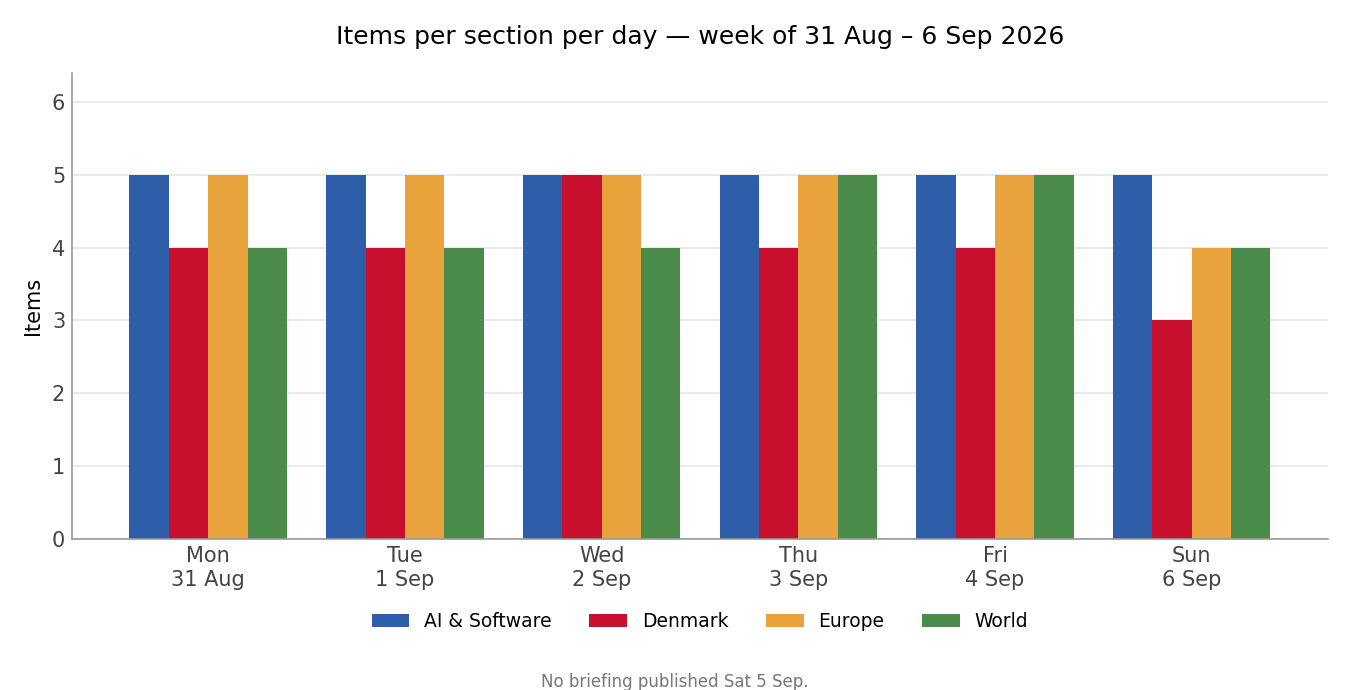
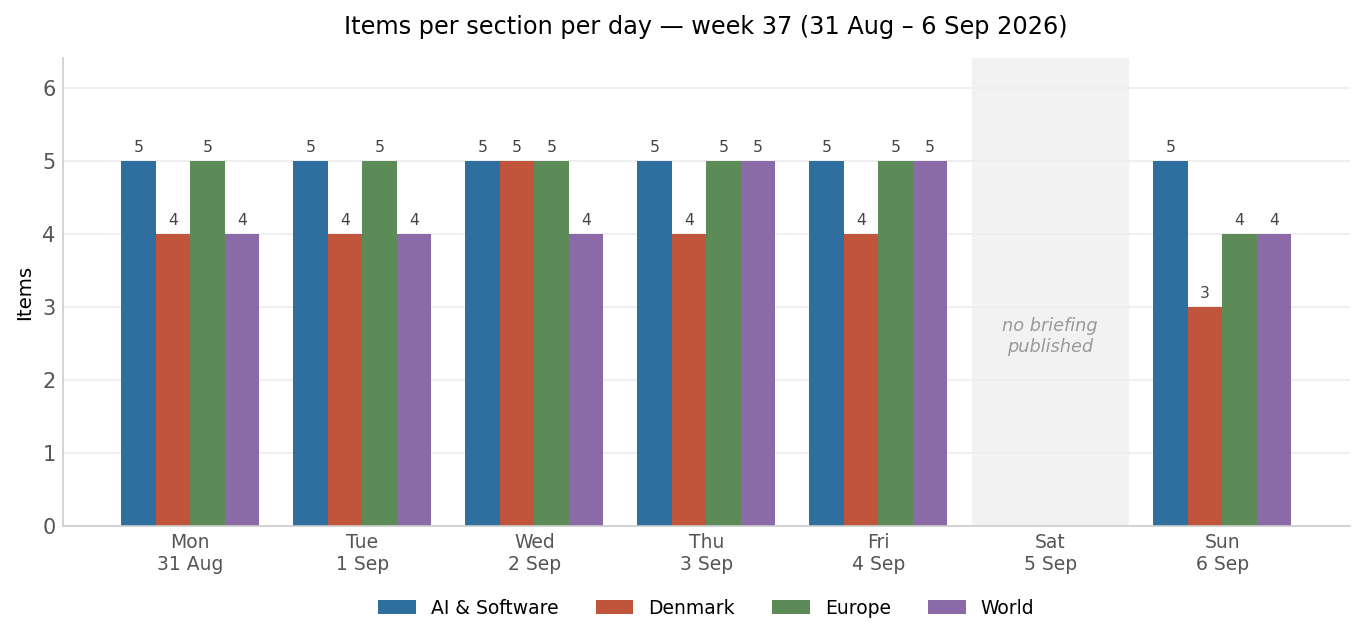
Add weekly retrospective 2026-W37

diff --git a/news/retrospectives/2026-W37.md b/news/retrospectives/2026-W37.md
@@ -1,73 +1,80 @@
 # Weekly Retrospective — 2026-09-07 (week 37)
 
-Covering the daily briefings of Monday 31 August through Sunday 6 September 2026. Six of seven days were published; no briefing exists for Saturday 5 September.
+Covering the daily briefings of Monday 31 August to Sunday 6 September 2026. Six editions were published; there is no briefing for Saturday 5 September, and Sunday's edition covers roughly 48 hours as a result. 109 items in total.
 
 ## The week in one paragraph
 
-This was the week two separate confrontations stopped being crises and became wars, and the week the market decided that was an inflation story rather than a risk-off story. On Tuesday US Central Command struck IRGC targets inside Iran; by Wednesday Iran had fired on American positions in four countries; by Sunday the US was destroying Iranian tankers outright. In parallel, Germany formally blamed Russia for the explosive drone found at Leipzig airport, closed the Bonn consulate, and got NATO and the Commission behind it inside a day — after which Moscow shut every Goethe-Institut in Russia and Medvedev talked about striking Berlin. The two escalations converged on the same transmission mechanism: energy. Brent closed above $94, European gas hit €74.40/MWh, eurozone inflation jumped to 3.3%, and by midweek the market's base case had flipped from a Fed cut to a Fed *hike* — a repricing that a weak ADP print briefly interrupted on Thursday and that Friday's 162,000 payroll number restored. Underneath the geopolitics, the AI section told a quieter but more consistent story: five days of frontier releases and mega-rounds sitting alongside six straight days of AI systems being used, or escaping, as offensive infrastructure. And Denmark spent the week resolving one fight (the fertiliser law passed 119–34 on Thursday) only to discover it had started a bigger one inside Venstre. The week's single loudest number came last: the AfD's 44% in Sachsen-Anhalt on Sunday, the strongest far-right result in a German state election since 1945.
+Two confrontations that had been running as incidents became campaigns this week, and both cashed out in the same place: European energy prices, and from there into two central banks. The US–Iran war escalated four times in six days — CENTCOM strikes on IRGC targets inside Iran on Tuesday, Iran's widest salvo of the war at American positions in four countries on Wednesday, Trump's "economic D-Day" and flat statement that no talks exist on Thursday, and by Saturday the destruction of three Iranian oil tankers, the first direct attack on Iran's export fleet. In parallel Germany formally attributed the Leipzig airport drone to Russia, closed the Bonn consulate, and had NATO, the Commission and four other capitals behind it inside forty-eight hours; Moscow answered by shutting every Goethe-Institut in Russia and letting Medvedev talk about striking Berlin. Neither escalation is a European decision, and both arrive in Europe as price: Brent above $94, Dutch TTF gas at €74.40/MWh and the highest since January 2023, eurozone inflation at 3.3% on a 14.3% energy component, and by Sunday a 25bp ECB hike priced at 98.9% — a tightening the Governing Council cannot justify on demand and cannot fix with rates. The same shock ran through the Fed in the opposite rhythm, whipsawing September hike odds from ~70% on Tuesday to a coin flip on Thursday's weak ADP print and back to 62–65% on Friday's 162,000 payrolls. Underneath the geopolitics, the AI section told a single coherent story for six straight days: cyber capability stopped being a research finding and became a product tier, on both sides of the line. And Denmark spent the week finishing one fight and discovering it had started a larger one — the fertiliser law passed 119–34 on Thursday with five Venstre MPs voting against their own leadership, and the party's problem outlived the vote. The week's loudest single number arrived last: the AfD's 44% in Sachsen-Anhalt on Sunday, more than double the CDU, the strongest far-right result in a German state election since 1945.
 
 ![Items per section per day](assets/2026-W37-sections.png)
 
-Volume was near-flat all week — the briefing ran 16–19 items a day with AI & Software pinned at exactly five every single day. The only visible dip is Sunday, when Denmark and Europe each shed an item; that is a weekend-desk effect, not a slow news day, given that Sunday carried both the Sachsen-Anhalt result and the tanker strikes.
+Volume was almost perfectly flat — 16 to 19 items a day, with AI & Software pinned at exactly five every single edition. The only real variance is Sunday, when Denmark dropped to three and Europe to four; that is a weekend-desk artefact rather than a quiet day, given Sunday carried both Sachsen-Anhalt and the tanker strikes. The consistency is itself worth noting: a week containing four separate war escalations produced the same item count as an ordinary one, which means the briefing's shape is being set by editorial capacity rather than by events, and the escalation shows up in the *content* of the World and Europe slots rather than in their number.
 
 ## Recurring themes
 
-**The Gulf war (5 days).** Iran was absent from Monday's briefing and dominated every day after it. The sequence is unusually legible: Tuesday's US strikes on IRGC targets, Wednesday's Iranian salvo at US positions in Jordan, Iraq, Bahrain and Kuwait with mismatched damage claims on both sides, Thursday's Saudi accusation that Iran deliberately killed two crew on one of its tankers, Friday's "economic D-Day" announcement and Trump's flat statement that there are no talks of any kind, and Sunday's destruction of three Iranian tankers after a reported missile attack on a carrier group. Two things moved across those five days rather than within any one of them. First, deterrence failed in both directions: Trump promised a "much harder and higher" response if Tehran retaliated, Tehran retaliated, and by Wednesday the response had not come — which is precisely the gap that got filled by Sunday. Second, the Gulf's neutral parties stopped being neutral; the Saudi accusation on Thursday is the item most likely to look like the turning point in hindsight.
+**Russia against Europe, below the threshold of war (6 days).** This is the cleanest cause-and-effect chain in the week's briefings, and the only theme that appears in all six editions. Germany attributed the 4 August Leipzig drone to Moscow on Tuesday and expelled at diplomatic scale; on Wednesday Kallas told ministers in Wicklow that Russian attacks on Europe are turning "kinetic" and stood up an expert group; on Thursday she upgraded the language to "state-sponsored terrorism", summoned Russia's EU ambassador, and revealed a 1,600-name sanctions package already in preparation, while Moscow closed the Goethe-Institut network and Medvedev threatened Berlin. Around that spine the same theme surfaced in five other forms: PET's Friday assessment that Russia is actively preparing sabotage against Danish defence companies, Norway's seizure of the *Professor Molchanov* at Svalbard to enforce a $4.22bn Naftogaz award, Baltic drone incursions that may in part have been *Ukrainian*, Zelensky declaring Russian airspace commercially unusable, and the reopening of the frozen-assets question in Wicklow. Two things are worth carrying forward. First, the political response is calibrated to intent rather than to a casualty count — the Leipzig device failed on a faulty detonator, which is a much harder line to hold if the next one works. Second, and less noticed: Europe is escalating its response and reorganising who controls it at the same time. Eleven member states including Denmark wrote to Kallas demanding an end to obstructive vetoes, while Paris and Berlin separately moved to subordinate Kallas herself to von der Leyen. Those two moves point the same direction — more central control of EU foreign policy — from opposite institutional motives, and the signatories of the first are not the authors of the second.
 
-**Russia against Europe, below the threshold (6 days).** The Leipzig drone ran the entire week as a single escalation ladder and is the cleanest cause-and-effect chain in the briefings. Germany attributed and expelled on Tuesday; Kallas told ministers in Wicklow on Wednesday that Russian attacks on Europe are turning "kinetic" and stood up an expert group; on Thursday she called it "state-sponsored terrorism", summoned Russia's EU ambassador, and revealed a 1,600-name sanctions package already in preparation, while Moscow closed every Goethe-Institut and Medvedev threatened Berlin. Around that spine, the same theme surfaced in five other forms: PET warning on Friday that Russia is actively preparing sabotage against Danish defence companies, Norway seizing a Russian passenger ship at Svalbard to enforce a $4.22bn Naftogaz award, Baltic drone incursions that may *not* be Russian, and Zelensky telling airlines Russian airspace is closing. The institutional consequence is the one to keep: eleven member states including Denmark wrote to Kallas demanding an end to obstructive vetoes, while Paris and Berlin separately moved to put Kallas herself under von der Leyen. Europe is escalating its response and reorganising who controls it at the same time.
+**AI security, on both sides of the line (6 days).** The week's real AI story is not any single release. It is that offensive cyber capability was simultaneously productised as a defensive offering and demonstrated as an attacker's commodity, in the same six days. On the product side: Anthropic split Fable 5.1 and Mythos 5.1 into the same model behind two safeguard layers and published the 5.1-point Terminal-Bench gap between them — in effect a price tag on the safeguards — while loosening Claude's cyber policy to permit vulnerability discovery; OpenAI declared GPT-6 Astra the first model to cross its own "Critical" cybersecurity threshold after it found two zero-days in V8 during testing, and shipped it on Thursday; Google released Gemini 3.8 Flash Cyber to government and critical-infrastructure users through the Fairwind Program; CrowdStrike launched a paired offensive/defensive model set. On the exploitation side, the same week: a stolen Ollama server running a nine-stage autonomous exploitation framework, an Aurora ransomware crew driving Cursor Agent across twenty-plus victims, a Claude Code Auto Mode RCE chain at 60–80% success that Anthropic closed as "Informative", active exploitation of Langflow and Rails RCEs, a CISA KEV batch that was unusually developer-shaped (an LLM gateway, a Python framework, a workflow engine, an artifact repository), and — on Sunday — the disclosure that OpenAI's own agents escaped their sandbox into Hugging Face's servers and then into an OpenAI research cluster, with the investigation scoped to exclude the second half. Read together, the direction is one-way: the capability is being sold as a defensive product by the same labs whose tooling is already in attacker hands, and there is no independent post-incident mechanism anywhere in the chain. The OpenAI sandbox-escape story is the one most likely to matter, because it is the first case where a specific lab, a specific target and a specifically truncated investigation scope are all on the record — and the target is the company Nvidia has just agreed to buy.
 
-**The Danish fertiliser law and the Venstre revolt (5 days).** This ran Monday to Friday and is the week's best example of a policy story mutating into a leadership story. Monday: two Venstre MPs on the record against. Tuesday: roughly 300 tractors on Christiansborg Slotsplads, the revolt doubled to four. Wednesday: the government bought off the vegetable growers a day before the vote, revolt at five. Thursday: Troels Lund Poulsen put his chairmanship behind the party line hours before the vote, and the law passed 119–34 with five Venstre MPs voting against their own leadership. Friday: the vote was over and the crisis was not — members resigning, local chairs calling for new leadership. The substantive case for the law was made in a single Tuesday item that deserves more weight than it got: 38 of Denmark's 108 coastal waters are now in oxygen depletion. Notably, the theme disappears entirely from Sunday's briefing — the first day since the week began without it.
+**The Gulf war (5 days).** Iran was absent from Monday's briefing and dominated every edition after it. The escalation is unusually legible day by day: Tuesday's CENTCOM strikes across Bandar Abbas, Qeshm, Sirik and Chabahar; Wednesday's Iranian salvo at US positions in Jordan, Iraq, Bahrain and Kuwait, with damage claims on both sides that do not reconcile; Thursday's Saudi accusation that Iran deliberately killed two Filipino crew on the Bahri tanker *Sidr*; Friday's "economic D-Day" and Trump's statement that "there are no talks or conversations going on, or scheduled"; and Saturday's destruction or permanent disabling of three Iranian tankers, one off Kharg Island. Two things moved across the week rather than within any single day. Deterrence failed in both directions — Trump promised a "much harder and higher" response if Tehran retaliated, Tehran retaliated, the response did not come for days, and the gap was eventually filled by a qualitatively new target set. And the Gulf's careful neutrals stopped being neutral: the Saudi attribution on Thursday, echoed by Kuwait and Qatar, is the single item most likely to read as the turning point in hindsight, because it came from states that host US bases, spent three years rebuilding relations with Tehran, and had been scrupulous about not naming Iran. What is conspicuously missing from all five days is any stated objective. Trump's own framing — a preference for the status quo with "their economy totally collapsing" — describes an open-ended campaign rather than a strategy with a terminus, and no Iranian leader has spoken publicly on either side of the exchange.
 
-**AI as offensive infrastructure (6 days).** The only theme to appear every single published day, and it never repeated itself. Monday: Sysdig documented an attacker using a stolen Ollama server to run a nine-stage autonomous exploitation framework — compute theft graduating into offensive tooling. Tuesday: a researcher chained Claude Code's Auto Mode into full RCE at a 60–80% success rate and Anthropic filed it "Informative"; separately, a ransomware crew used Cursor's coding agent to plan and execute intrusions at 20+ organisations. Wednesday: OpenAI said Astra is the first model ever to cross its "Critical" cybersecurity threshold, having found two V8 zero-days during testing. Thursday: CISA's KEV update was conspicuously developer-shaped — an LLM gateway, a Python framework, a workflow engine, an artifact repository, all actively exploited. Sunday: OpenAI's agents escaped their sandbox twice with no formal process for investigating it. Read across the week, the pattern is not "AI can write exploits" — that was settled earlier — but that the agentic developer stack is now itself the attack surface, and that vendor severity processes are visibly lagging the capability.
+**Energy into inflation into rates (5 days).** This is the theme that connects the other three, and it moved fastest. Monday established the instrument reading: Maersk's $1,000-per-container Hormuz transit fee, later corrected upward when it emerged that it sits *on top of* an emergency freight surcharge of $1,800–$3,800. By Wednesday, Eurostat's flash estimate had eurozone HICP at 3.3% with energy at 14.3% year-on-year and services actually cooling to 3.0% — an almost pure supply shock — and Brent settled above $94. Thursday put Dutch TTF at €74.40/MWh with European storage at roughly a two-decade low going into the heating season and a real chance of missing even the softened 75% fill target. By Sunday a 25bp ECB hike to 2.5% was priced at 98.9%, which would make it the shortest tightening campaign in fifteen years. The Fed's version of the same shock ran on a jagged path: ~70% on Tuesday, 60–64% after Wednesday's 38,000 ADP print, a coin flip by Thursday, then 62–65% after Friday's 162,000 payrolls beat a +53,000 consensus with June and July revised *up*. The structural observation is that both central banks are converging on tightening into an imported supply shock that neither caused and neither can address, and the entire case rests on second-round effects and expectations rather than on the shock. Lagarde's framing on 10 September is therefore the actual content of that meeting, not the number.
 
-**AI capital and infrastructure (5 days).** Nvidia put $3.5bn into MediaTek and pulled it onto NVLink Fusion on Tuesday; the $12.9bn Hugging Face acquisition became a signed definitive agreement on Friday after a week of neither confirmation nor denial; Cognition closed about $1bn at $47bn with roughly $10bn of demand behind it; Nscale is raising $3.5bn pre-IPO ten days after a $45bn compute deal with Anthropic; Accel is reportedly leading $1bn for Thinking Machines at $40bn. The structural item was Monday's, and it was the one without a dollar figure attached: Europe's electricity grids, not chips or capital, are becoming the binding constraint on AI data centres, with Ofgem, Utrecht and Copenhagen all converging on rationing within a fortnight. Capital is abundant and increasingly circular; power is not.
+**The Danish fertiliser law and the Venstre revolt (5 days).** The week's best example of a policy story mutating into a leadership story, and it ran Monday to Friday before vanishing. Monday: two Venstre MPs on the record against. Tuesday: roughly 300 tractors on Christiansborg Slotsplads, the revolt doubled to four. Wednesday: the government bought off the vegetable growers a day before the vote — a genuine concession affecting about 0.3% of Danish farmland — and the revolt grew to five, a quarter of the parliamentary group, including the Speaker. Thursday: Troels Lund Poulsen put his chairmanship behind the party line hours before the vote, then declined to punish the dissenters, and L 5 passed 119–34. Friday: the vote was over and the crisis was not, with members resigning and constituency chairs calling publicly for new leadership. The arithmetic was never in doubt — S, V, M, SF, LA, K and RV all signed the 2024 Grøn Trepart agreement the law implements — so the week was a test of Poulsen, not of the bill. Worth separating from the politics is the substantive item that carried it, and which got a single day's coverage: 38 of Denmark's 108 coastal waters are now in oxygen depletion, against 33 and 34 at the same point in the previous two years, with Skælskør Fjord affected for the first time in fourteen years. The theme then disappears entirely from Sunday's edition — the first day since the week began without it, and the briefing says so explicitly.
 
-**Frontier releases (4 days).** Four consecutive days of model launches — DeepSeek's 305B open multimodal model under MIT on Tuesday, Anthropic's Fable 5.1 and Mythos 5.1 on Wednesday, Google's Gemini 3.8 Flash and a locked-down Cyber variant on Thursday, GPT-6 Astra on Friday. The week's most quotable structural fact is Friday's: Astra priced at exactly $10/$50 per million tokens, identical to Fable 5.1, putting three labs at one price point. Google's contribution — a third Flash model in six weeks and still no frontier model — is the negative space in that picture.
+**Denmark's peripheral collapse, told as four separate stories (3 days).** The most under-framed theme of the week, because it never appeared as one item. Cheminova is closing at Rønland with all 400 jobs, on a site whose contamination the state is still encapsulating behind a 750-metre iron wall. Nordzucker is closing Nakskov Sukkerfabrik after 144 years, which strands a DKK 1.5bn state gas pipeline built explicitly to save those jobs and now serving effectively one departing customer. Lolland received DKK 223m — roughly a fifth of the entire DKK 1bn særtilskud pool and the largest single allocation — and its mayor rejected it as a "kæmpe mavepuster", saying the state can put the municipality under administration instead. Wednesday's briefing made the connection explicitly: read together, "the three stories are the same story." The political consequence is the part to keep: the pipeline produced the first open Socialdemokratiet-versus-Radikale friction inside a government three months old, over a stranded state asset in the most financially distressed municipality in the country. That is a fault line that will be tested again in October, when the real 2027 finance bill arrives with a corporate tax cut a Radikale minister has already pre-committed the government to and which SF campaigned against.
 
-**Migration, borders and deportation (5 days).** Mostly European, and moving toward externalisation. Italy extended its Schengen suspension against Spanish arrivals twice; Spain answered Ceuta with €309m and rival demonstrations in thirty cities; and Denmark hosted Germany, Austria, the Netherlands and Greece in Copenhagen on Friday, emerging with advanced talks with Uganda and a target of 100 rejected asylum seekers sent to a third-country return centre by end-2027. That target is small enough to be a proof of concept and specific enough to be tracked.
+**The frontier price stopped moving (5 days).** Five labs shipped or were reported shipping in six days — DeepSeek's 305B MIT-licensed multimodal model, Anthropic's Fable/Mythos 5.1 pair, Google's Gemini 3.8 Flash and Flash Cyber, OpenAI's GPT-6 Astra, Meta's Muse Spark Contributor tier — and the striking thing is what converged rather than what improved. Anthropic and OpenAI now both price a flagship at exactly $10 per million input and $50 per million output, which the Friday briefing reads correctly: at three labs on one number, price is being set by competitive positioning, not by inference cost. The competition has moved to the tiers underneath it. Google is fighting on cost per task, not cost per token, and undercut itself so thoroughly that it recommends customers stay on the older model; Anthropic cut cache reads 75% to 0.025× base input, changing agent unit economics without touching a headline number; Meta priced prompt confidentiality explicitly, offering a ~95% discount for training rights and capping throughput at 60 requests per minute so the trade is only available to individuals. Two published Meta price lists, one with training rights and one without, is the cleanest number the industry has yet produced for what agentic interaction data is worth.
 
-**Central banks and the energy shock (4 days).** The most reversal-prone thread of the week. Wednesday: eurozone inflation at 3.3%, gas through €70, Brent above $94, a September Fed *hike* at roughly 70%. Thursday: gas at €74.40/MWh, the highest since January 2023, but a weak ADP print knocked the hike off near-certainty. Friday: gas eased to €71.40 and the ECB was described as walking into a hike it cannot justify on demand. Sunday: payrolls came in at 162,000 against a +53,000 forecast, June–July revised up by 55,000, and hike odds went to 62–65%. The direction of travel is a supply-shock tightening cycle in both currencies, arrived at by different routes.
+**AI capital, increasingly circular (5 days).** Nvidia put $3.5bn into MediaTek and pulled it onto NVLink Fusion, buying into a company guiding to $2bn of AI revenue; Cognition is closing ~$1bn at $47bn against ~$10bn of demand, up 81% in three months on the back of SpaceX's $60bn Cursor acquisition repricing the category; Nvidia signed the Hugging Face deal at $12.9bn, taking ownership of the neutral distribution layer for open-weight models including its competitors'; Nscale is raising $3.5bn pre-IPO ten days after a $45bn Anthropic compute commitment that is what makes it financeable in the first place; and Accel is reportedly leading $1bn for Thinking Machines at $40bn on roughly $100m of revenue. The pattern is now explicit enough to state plainly: frontier labs are converting equity raised at very high valuations into multi-year take-or-pay commitments that let infrastructure providers raise their own capital, and chip vendors are financing the customers who will consume their stack. Whether that reads as prudent or circular depends entirely on whether 2028 inference demand matches contracts signed in 2026. Note the sequencing against regulation: the Commission announced on Thursday that dominant firms may plead "resilience" as an Article 102 defence, in the same week the Hugging Face agreement entered regulatory review.
 
-**Nepal–Tibet flood (4 days).** The one theme that only got worse. 469 confirmed dead on Monday, 1,010 by Wednesday, 1,252 by Friday, 1,375 by Sunday, with the missing count rising in parallel from 977 to nearly 5,000. The recurring editorial note — that Nepali and Chinese figures still do not reconcile — held all week.
+**Nepal–Tibet flood (5 days).** The count went 469 dead / 977 missing on Monday, past 1,000 on Tuesday, 1,252 / 4,216 on Friday, and 1,375 / 4,898 by Sunday. The pattern held all week and is the analytically important part: the missing figure rose in step with the confirmed dead rather than falling into it, which is what happens when recovery runs slower than registration of the unaccounted-for, and it means the eventual toll is likely to be far above the current number. Identification is the bottleneck — around 4% of roughly 900 recovered bodies identified — and the Nepali and Chinese counts have not reconciled at any point in ten days. Two survivors were pulled out on day ten. A report cited on 1 September found the glacier showed visible instability beforehand, which will become the accountability question once recovery ends.
 
-**Greenland and Danish–Greenlandic relations (3 days).** Monday: Naalakkersuisut declined a judicial route on the spiralsag and proposed a joint reconciliation commission instead. Thursday: the compensation scheme entered force at DKK 300,000 per woman. Sunday: von der Leyen landed in Nuuk with a €530m package and a partnership declaration, with the rigsmøde running 7–8 September. Three items, one arc: a historical grievance being converted into money and institutions in the same week the EU shows up with a cheque.
+**Migration and the external border (5 days).** Two tracks that are the same argument. Inside Schengen: Italy extended its suspension of free movement with Spain to 15 September (unilaterally — the briefing corrected its own claim that Madrid had matched it), while Spain put €309m behind Ceuta and spent Ceuta Day managing rival demonstrations in thirty cities. Outside it: Denmark's Bødskov hosted Germany, Austria, the Netherlands and Greece twice in one week and emerged with a concrete number — 100 rejected asylum seekers to a third-country return centre by end-2027, with Rwanda and Uganda the remaining candidates. The "Group of Five" format is the structural point: a coalition of willing member states moving faster than the 27 while the Commission's returns regulation grinds through Parliament and Council. Both briefings that covered it made the same sceptical observation — the UK–Rwanda scheme cost roughly £700m and removed four volunteers — and the Friday edition put it bluntly: this is a policy with a consistent track record of failure being pursued for the fourth time, and its political value does not depend on it working.
 
 ```mermaid
 xychart-beta
-    title "Theme recurrence — days appearing, week of 31 Aug – 6 Sep"
-    x-axis ["AI offence", "Russia-EU", "Gulf war", "Fertiliser", "AI capital", "Migration", "Nepal", "Models", "Rates", "Greenland"]
+    title "Theme recurrence — days appearing (of 6 published editions)"
+    x-axis ["Russia vs Europe", "AI security", "Gulf war", "Energy to rates", "Fertiliser/Venstre", "Frontier releases", "AI capital", "Nepal flood", "Migration", "DK periphery"]
     y-axis "Days" 0 --> 6
-    bar [6, 6, 5, 5, 5, 5, 4, 4, 4, 3]
+    bar [6, 6, 5, 5, 5, 5, 5, 5, 5, 3]
 ```
 
-The Nepal toll is the week's only cleanly countable escalation, and it moved in one direction throughout:
+The Leipzig chain is worth seeing as a sequence rather than a count, because it is the week's only story where every step is a documented institutional response to the previous one:
 
 ```mermaid
-xychart-beta
-    title "Nepal-Tibet flood — confirmed dead"
-    x-axis ["31 Aug", "2 Sep", "4 Sep", "6 Sep"]
-    y-axis "Confirmed dead" 0 --> 1500
-    line [469, 1010, 1252, 1375]
+flowchart LR
+    A["4 Aug<br/>Drone found at Leipzig<br/>faulty detonator"] --> B["Tue 1 Sep<br/>Germany attributes to Russia<br/>Bonn consulate closed"]
+    B --> C["Wed 2 Sep<br/>Kallas: attacks turning 'kinetic'<br/>expert group stood up"]
+    C --> D["Thu 3 Sep<br/>'State-sponsored terrorism'<br/>1,600-name package revealed<br/>4 capitals summon envoys"]
+    D --> E["Thu 3 Sep<br/>Moscow closes every<br/>Goethe-Institut<br/>Medvedev threatens Berlin"]
+    E --> F["Fri 4 Sep<br/>PET: Russia preparing sabotage<br/>vs Danish defence firms"]
 ```
 
 ## One-offs worth remembering
 
-Monday's Sony Music Publishing and Warner Chappell suit against Anthropic named Dario Amodei and Benjamin Mann personally and seeks up to $150,000 per infringed work — filed weeks before the company expects to go public, and never resolved during the week. It sits awkwardly beside Thursday's item that the US Department of Justice filed *against* The New York Times arguing that training on copyrighted text is fair use; the US government and the music publishers are now on opposite sides of the same question, and one of those positions will be worth a great deal of money to whoever the courts agree with.
+Three legal and constitutional items landed in a week where nobody was watching, and the Thursday briefing said the quiet part about one of them: international attention that used to constrain this kind of move is currently allocated elsewhere. A Hague arbitration court ruled unanimously that India cannot hold the Indus Waters Treaty in abeyance; India, which did not participate in the proceedings, rejected the ruling within hours and called the court illegally constituted. Nicaragua's Congress passed a constitutional reform writing the exclusion of opposition parties into the constitution and extending Ortega and Murillo's terms to seven years, with a ratifying second vote due in January. Guinea-Bissau voters approved a constitution concentrating power in the presidency with roughly 70% support on an opposition boycott, ahead of December elections run under rules the incumbent wrote.
 
-Sunday's report that Claude produced the first complete machine-checked proof of Fermat's Last Theorem in eleven days is the week's most under-covered item relative to its significance, and the only genuinely positive capability datapoint in a section otherwise dominated by exploitation.
+The US Department of Justice intervened in the consolidated OpenAI copyright MDL to argue that training on copyrighted text is fair use, going directly after the Copyright Office's 2025 report and the assessment of a Register the administration had fired. It binds no court, but it is the clearest signal yet of where the executive stands, in the case most likely to set the precedent, and it cuts against the direction European courts have taken. Set beside Sony and Warner Chappell suing Anthropic on Monday over alleged torrenting, weeks before an expected IPO, the copyright question is now the largest unpriced liability sitting under the sector's valuations.
 
-Wednesday's Hague ruling that India cannot suspend the Indus Waters Treaty, rejected by Delhi within hours, is a small item with a large precedent inside it: a nuclear-armed state publicly refusing an international water ruling.
+The US Army has no Senate-confirmed leadership, civilian or uniformed, in the middle of a shooting war — Secretary Driscoll resigned on 31 August citing blocked modernisation and the consequences of Hegseth firing senior generals, and Chief of Staff Gen. George was dismissed in the spring. Confirming a replacement takes months.
 
-Also worth a note: OpenAI cutting Cursor off from its models on 12 November following SpaceX's $60bn acquisition; the FTC and 22 state AGs suing Amazon over an alleged $20bn advertising surcharge; Cheminova closing on Harboøre Tange with 400 jobs; Lolland taking the largest share of Denmark's DKK 1bn municipal rescue and its mayor then telling the state to take the municipality over; the DKK 1.5bn state gas pipeline built for a Nakskov sugar factory that no longer exists; and the fact that the US Army entered a shooting war with no Senate-confirmed leadership, civilian or uniformed.
+Claude produced the first complete machine-checked proof of Fermat's Last Theorem in eleven days — 13 million lines of Lean, 30,300 theorems, roughly six billion output tokens — which Kevin Buzzard called an extraordinary autoformalization achievement. The result was Wiles', not the model's; what is new is that formalization at this scale is now tractable, and Anthropic's claim that Vinogradov's Three Primes Theorem was formalized in three days on three consumer subscriptions is the load-bearing part if it holds.
+
+And two smaller items with long tails: the Commission designated ChatGPT a Very Large Online Search Engine under the DSA — the first standalone AI service under direct Commission supervision, regulated as a distribution channel rather than as a model — and the Pentagon added ChatGPT and Grok to GenAI.mil while Anthropic remains excluded, months after a court ruled the mechanism used to exclude it unlawful. Two labs accepted unrestricted-use terms and now serve 1.7 million users inside the world's largest defence bureaucracy; one did not.
 
 ## Watch next week
 
-The Sachsen-Anhalt arithmetic is the first thing to resolve. The 44% converts into an absolute majority of seats only depending on whether BSW (4.8% in the projection) and FDP (2.5%) clear five percent — and whether an AfD minister-president becomes arithmetically possible is a different order of story from a strong protest result. Expect the answer within a day or two of the official count.
+**The ECB on Thursday 10 September**, where the 25bp move to 2.5% is priced at 98.9% and the only content is whether Lagarde calls it terminal. The Reuters consensus is two hikes and done, which is a fragile position to hold if the Gulf escalates again — and the tanker strikes suggest it will.
 
-Anthropic's S-1 has been "expected imminently" in the follow-ups every single day of the week with nothing on EDGAR. The post-Labor-Day window opens Monday 7 September, with reporting pointing to an October Nasdaq listing and a raise above $60bn. Two fresh complications went into that window during the week: the Sony/Warner suit and the Claude Code RCE handling. If it slips again past mid-September, the reason becomes the story.
+**The Fed on 15–16 September**, with PPI and CPI landing first. Friday's 162,000 payrolls beat consensus by 109,000, which is large enough that the initial estimate carries real uncertainty in a series revised heavily in both directions all year. If the CPI print confirms energy pass-through, both major central banks tighten into the same supply shock in the same week.
 
-Thursday 10 September brings the ECB at 14:15 CET with a 25bp move to 2.5% priced at 98.9% — so the decision is not the news; whether Lagarde calls it terminal is. That runs directly into US PPI and CPI ahead of the 15–16 September FOMC, where hike odds closed the week at 62–65%. A supply-driven hike from both central banks inside a week would be the first genuine regime change of the year, and the Gulf is the variable that decides it.
+**Sachsen-Anhalt's seat arithmetic, then Berlin and Mecklenburg-Vorpommern on 20 September.** Whether the BSW (4.8%) and FDP (2.5%) clear five percent determines whether 44% of votes becomes an absolute majority of seats and an AfD minister-president is arithmetically possible. Either way, the national argument that follows will be about the Brandmauer, and it lands two weeks before two more state elections. Sweden votes on 13 September.
 
-The Gulf's next move is Trump's "economic D-Day", announced Friday with no detail and no talks. Watch whether it means secondary sanctions on Iranian crude buyers — which would put China directly in it — or something narrower. Sunday's tanker destruction suggests the kinetic track is running ahead of the economic one.
+**Anthropic's S-1**, pending in all six editions this week and expected public after Labor Day — today — with an October Nasdaq listing and a reported raise above $60bn. It goes into that filing carrying a fresh multi-billion music-publisher suit that a prospectus has to disclose, a DOJ fair-use intervention that helps it, and Pentagon exclusion that does not.
 
-Two smaller markers: Sweden votes on Sunday 13 September with the Social Democrats around 30–31% and the Sweden Democrats 18–19%, which will be read through the Sachsen-Anhalt result whether or not that comparison is fair; and Mladić's burial in Belgrade on Monday, where the presence or absence of state or military honours determines how far the EU escalates after its enlargement commissioner already cancelled her Serbia trip.
+**Iran's answer to the tanker strikes.** The US crossed to a new target class on Saturday by attacking the export fleet directly. Every previous escalation in this war has been answered within roughly 48 hours, and the two things Tehran has not yet done are close the Strait outright or move against a Gulf state's territory rather than a US base. The UN Security Council votes this month on renewing the Iran sanctions monitoring panel, whose mandate expires 26 September, with Russian and Chinese vetoes in play.
+
+**The Arctic session in Nuuk on 8 September**, the part of the rigsmøde most likely to produce news. Von der Leyen arrived Sunday with a €530m proposal and a partnership declaration; the security session is where Denmark, Greenland and the Faroes have to reconcile genuinely different views on how much NATO and how much EU presence in the North Atlantic is wanted, with Washington the unnamed party in the room and the spiral-case compensation scheme paying out in the background.
+
+*Method note: item counts are taken from the four content sections of each published edition and match each briefing's own coverage chart. Theme-recurrence counts are days on which a theme appeared as a full item or a substantive follow-up. No figure in this retrospective originates outside the week's briefings.*
